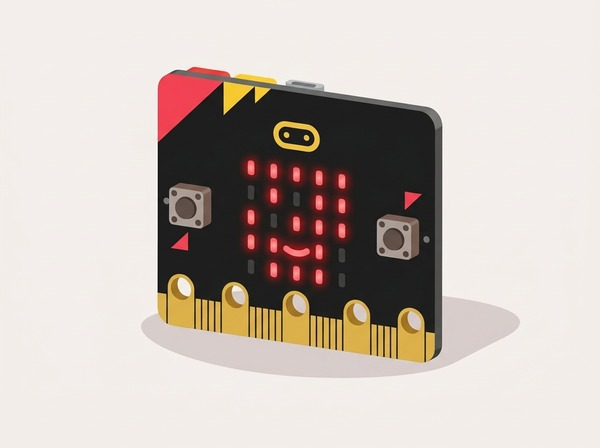
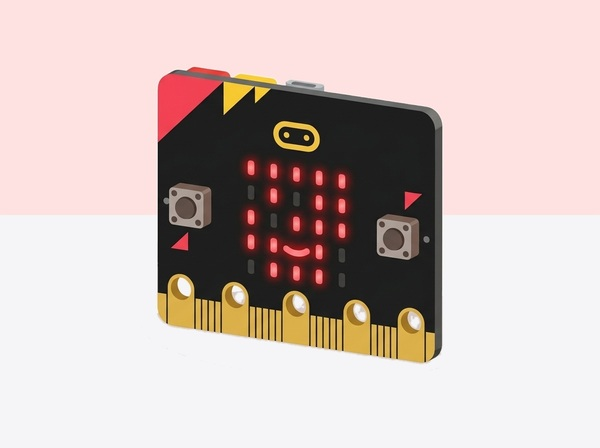
Aplicar nou estil bicolor unificat sense ombres (estil CodeyRocky) i documentar guia d'estil

diff --git a/STYLE_GUIDE.md b/STYLE_GUIDE.md
@@ -1,0 +1,39 @@
+# Guía de Estilo Visual para las Imágenes de EduRobótica
+
+Este documento establece el estándar visual obligatorio para todas las imágenes de portada de robots y elementos ilustrados de la web.
+
+## 1. Reglas Fundamentales de las Ilustraciones
+- **Estilo Gráfico:** Ilustración digital vectorial estilizada, diseño moderno de tecnología educativa para niños, formas limpias y redondeadas, estética de juguete tecnológico amigable (inspirado en el estilo de *CodeyRocky*).
+- **Fondo Bicolor Dividido (Mesa y Pared):**
+  - El fondo está dividido horizontalmente en dos mitades limpias por una línea de horizonte detrás de la parte media del robot.
+  - **Mitad superior (Pared):** Color pastel plano suave que armoniza con los colores primarios del robot.
+  - **Mitad inferior (Mesa/Superficie):** Color plano suave de mesa que complementa la paleta cromática del dispositivo.
+- **🚫 Prohibición Estricta de Sombras en el Suelo:**
+  - **No debe haber ninguna sombra debajo del robot.** Ni sombra proyectada (cast shadow), ni sombra de contacto (contact shadow), ni oclusión ambiental en la mesa.
+- **🚫 Prohibición Total de Texto:**
+  - Sin ningún tipo de texto, letras, números, marcas comerciales, logotipos o marcas de agua.
+- **Perspectiva y Encuadre:**
+  - Robot centrado en el encuadre, ocupando un 70-75% del ancho.
+  - Vista isométrica en perspectiva 3/4 frontal.
+- **Dimensiones:**
+  - Ancho de **600px** (proporción 4:3, resolución estándar de 600 × 448 px).
+
+---
+
+## 2. Paletas de Fondo por Robot
+
+| Robot | Mitad Superior (Pared) | Mitad Inferior (Mesa) | Tonos del Robot |
+| :--- | :--- | :--- | :--- |
+| **CodeyRocky** | Azul cielo pastel suave (`#dbeafe`) | Blanco roto / gris neutro claro (`#f1f5f9`) | Blanco, cian/turquesa brillante, negro |
+| **Coding Express** | Amarillo crema pastel suave | Verde menta pastel claro | Amarillo, azul DUPLO, rojo, verde |
+| **TaleBot Pro** | Melocotón / albaricoque pastel cálido | Turquesa muy pálido / crema claro | Azul cielo, naranja, botones de colores |
+| **CodingSet** | Naranja pastel suave / crema cálido | Blanco marfil / salvia muy claro | Blanco, cúpula naranja, botones amarillos |
+| **Spike Prime** | Lavanda / lila pastel suave | Gris cálido claro / crema suave | Amarillo vivo, turquesa, magenta, negro |
+| **Microbit** | Rosa pastel suave / coral pálido | Arena dorada clara / blanco cálido | Negro PCB, rojo LED, dorado conector |
+
+---
+
+## 3. Plantilla de Prompt para Generación
+```text
+Digital stylized vector art illustration of [Robot Name] from the reference image, matching the clean modern educational tech drawing style of CodeyRocky. Modern vector-style educational tech illustration, smooth clean shapes, friendly toy design, bright cheerful colors matching the device. Centered composition, 3/4 front isometric perspective view. The background is divided horizontally into two flat two-tone halves like a clean studio room: upper half is a solid [Color Superior] wall, and lower half is a solid [Color Inferior] flat table surface, with a crisp clean horizontal horizon line dividing them behind the middle of the robot. Strictly NO shadow beneath the robot, no drop shadow, no ground shadow, no contact shadow. Completely textless, strictly no text, no words, no numbers, no letters, no labels, no watermarks.
+```

diff --git a/AGENTS.md b/AGENTS.md
@@ -5,3 +5,15 @@
 - Tota la navegació i visualització de contingut (activitats, robots, tutorials, situacions d'aprenentatge) s'ha de fer mitjançant **pàgines/vistes en línia completes**.
 - Cada pàgina de detall ha de disposar d'un botó visible de tornada (`← Tornar...`) que restitueixi l'estat anterior de manera natural i accessible.
 - La web ha de mantenir en tot moment una **baixa densitat d'informació**, espaiat generós i netedat visual.
+
+## 🎨 Guia d'Estil de les Imatges de Portada dels Robots
+- **Estil visual:** Il·lustració digital vectorial estilitzada, joguina tecnològica educativa amable, línies i formes suaus i netes, idèntic a l'estil de referència de *CodeyRocky*.
+- **Composició de fons bicolor (2 meitats):**
+  - Fons dividit horitzontalment en dues meitats netes (efecte paret i taula).
+  - Meitat superior: color pastís pla que harmonitzi amb els tons del robot.
+  - Meitat inferior: color pla de superfície/taula que acompanyi la paleta del robot.
+  - Línia d'horitzó horitzontal neta darrere el robot.
+- **🚫 Sense ombres:** **No hi ha d'haver cap ombra sota el robot** (sense ombra de contacte, sense ombra projectada al terra).
+- **🚫 Sense text:** **Cap text, paraula, xifra, logotip ni marca d'aigua.**
+- **Mida:** Amplada exacta de 600px (format 4:3, 600x448 px).
+
